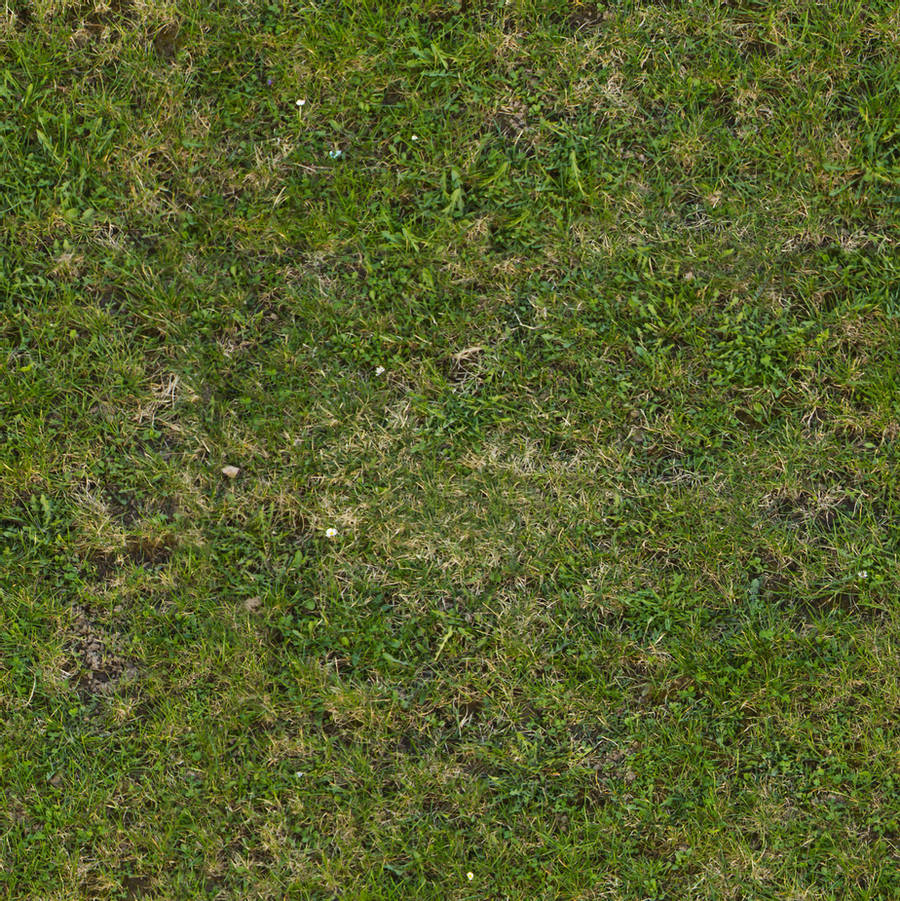
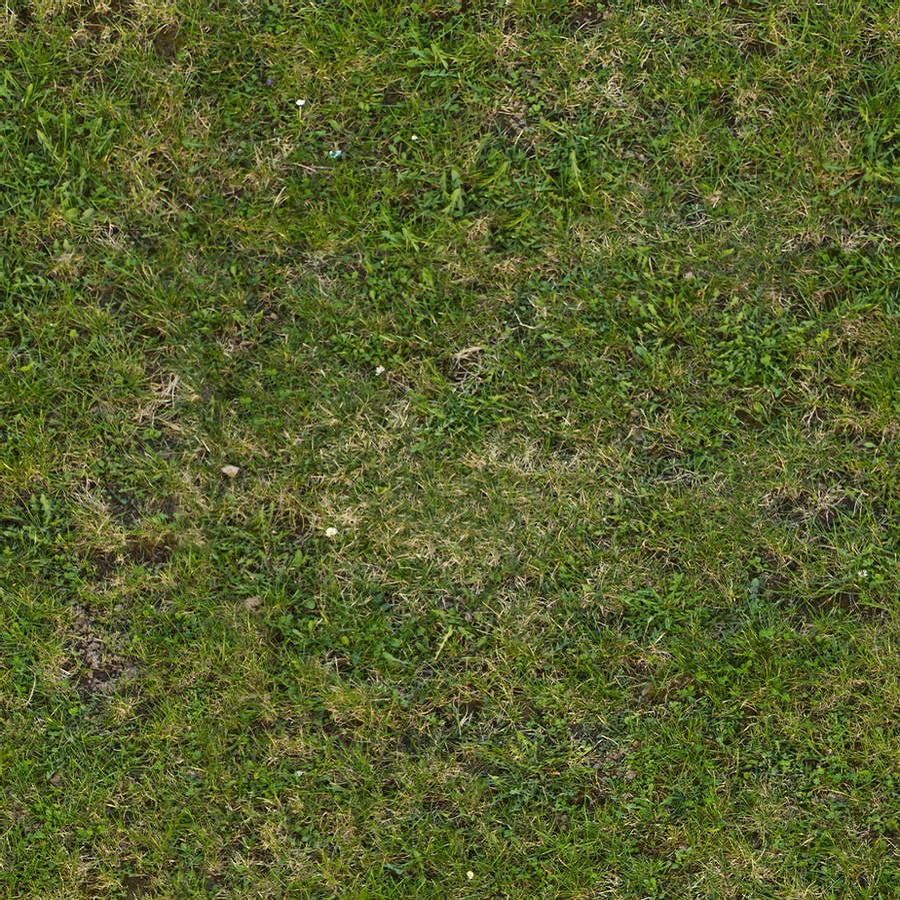
Fix ground texture

diff --git a/feladat/src/scene.c b/feladat/src/scene.c
@@ -48,7 +48,8 @@ void init_scene(Scene *scene)
     
     unplayable_ground.wrap_3d = false;
     unplayable_ground.texture_size[0] = 900;
-    unplayable_ground.texture_size[1] = 901;
+    unplayable_ground.texture_size[1] = 900;
+    unplayable_ground.tiled_texture = true;
     scene->bricks[0] = unplayable_ground;
 
     scene->playable_ground_texture = load_texture("playable_ground.jpg");
@@ -245,9 +246,14 @@ void draw_skybox(const Scene *scene)
 
 void draw_textured_brick(const TexturedBrick *brick, const Scene *scene)
 {
-    glPushMatrix();
-    glBindTexture(GL_TEXTURE_2D, brick->texture);
+    if (brick->tiled_texture)
+    {
+        glTexParameteri(GL_TEXTURE_2D,GL_TEXTURE_WRAP_S,GL_REPEAT);
+        glTexParameteri(GL_TEXTURE_2D,GL_TEXTURE_WRAP_T,GL_REPEAT);
+    }
     set_material(&(brick->material));
+    glBindTexture(GL_TEXTURE_2D, brick->texture);
+    glPushMatrix();
     glTranslatef(brick->position.x, brick->position.y, brick->position.z);
     glRotatef(brick->rotation_angle, 0, 0, 0);
     if (brick->wrap_3d)
@@ -295,10 +301,9 @@ void draw_textured_brick(const TexturedBrick *brick, const Scene *scene)
     }
     else
     {
-        float right_U = brick->size.x / brick->texture_size[0];
-        float top_V_on_sides = brick->size.z / brick->texture_size[1];
-        float top_V_on_top = brick->size.y / brick->texture_size[1];
-        printf("%.3f\n", right_U);
+        float right_U = brick->size.x / brick->texture_size[0] * 50;
+        float top_V_on_sides = brick->size.z / brick->texture_size[1] * 50;
+        float top_V_on_top = brick->size.y / brick->texture_size[1] * 50;
         //Top
         glBegin(GL_QUADS);
         glTexCoord2f(0, top_V_on_top);
@@ -374,4 +379,6 @@ void draw_textured_brick(const TexturedBrick *brick, const Scene *scene)
     glPopMatrix();
     set_material(&(scene->invalid_material));
     glBindTexture(GL_TEXTURE_2D, 0);
+    glTexParameteri(GL_TEXTURE_2D, GL_TEXTURE_WRAP_S, GL_CLAMP);
+	glTexParameteri(GL_TEXTURE_2D, GL_TEXTURE_WRAP_T, GL_CLAMP);
 }

diff --git a/feladat/src/texture.c b/feladat/src/texture.c
@@ -15,8 +15,10 @@ GLuint load_texture(char* filename)
     glBindTexture(GL_TEXTURE_2D, texture_name);
     glTexImage2D(GL_TEXTURE_2D, 0, GL_RGB, width, height, 0, GL_RGB, GL_UNSIGNED_BYTE, (Pixel*)image);
 
-	glTexParameterf(GL_TEXTURE_2D, GL_TEXTURE_WRAP_S, GL_CLAMP);
+	/*
+    glTexParameterf(GL_TEXTURE_2D, GL_TEXTURE_WRAP_S, GL_CLAMP);
 	glTexParameterf(GL_TEXTURE_2D, GL_TEXTURE_WRAP_T, GL_CLAMP);
+    */
 	
 	glTexParameterf(GL_TEXTURE_2D, GL_TEXTURE_MIN_FILTER, GL_LINEAR);
 	glTexParameterf(GL_TEXTURE_2D, GL_TEXTURE_MAG_FILTER, GL_LINEAR);

diff --git a/feladat/include/scene.h b/feladat/include/scene.h
@@ -16,6 +16,7 @@ typedef struct TexturedBrick
     vec3 size;
     bool wrap_3d;
     int texture_size[2];
+    bool tiled_texture;
 } TexturedBrick;
 
 typedef struct GolfBall
